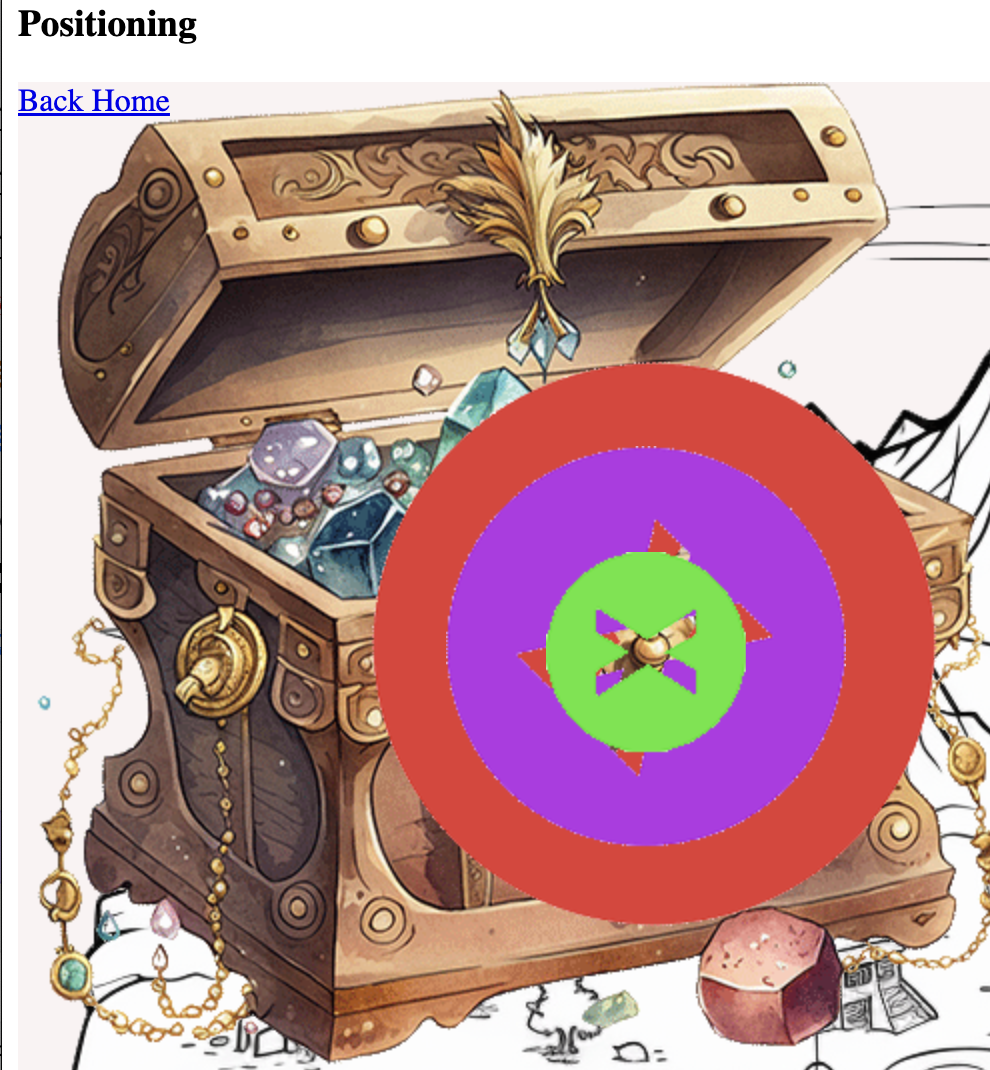
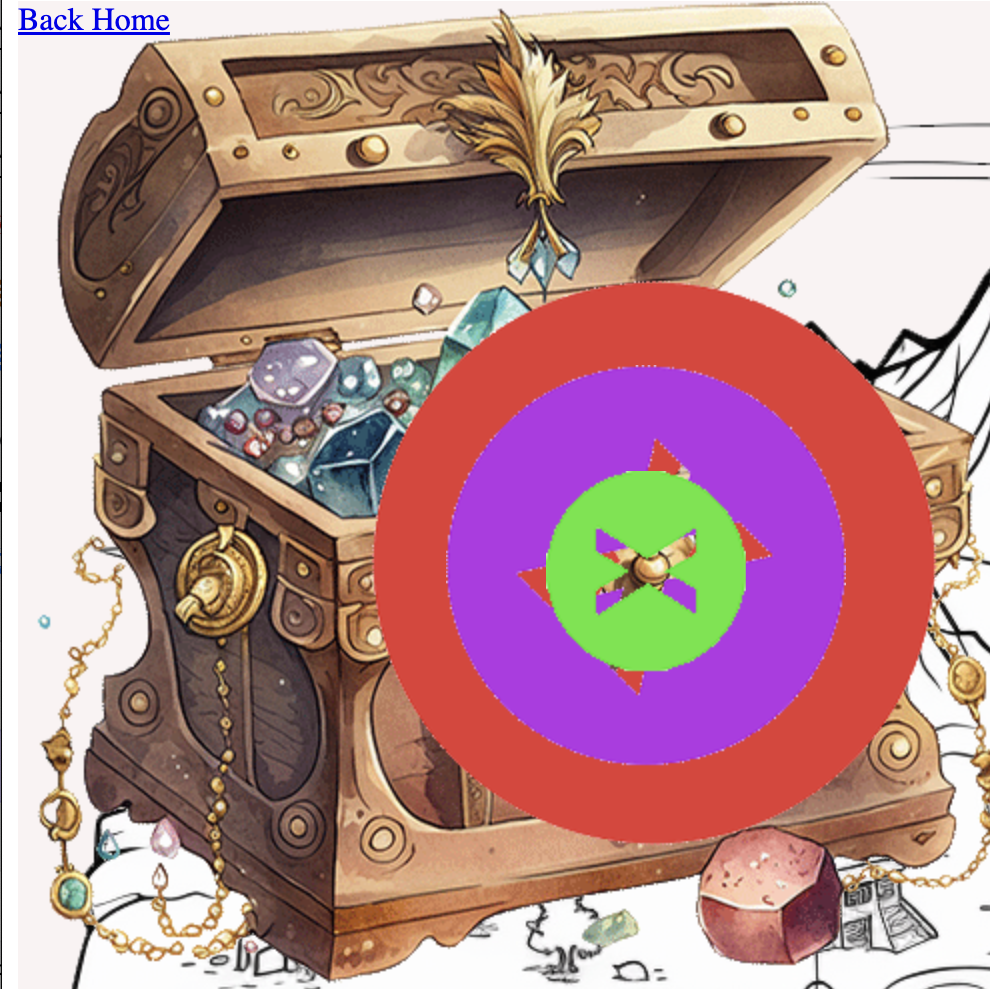
Upgraded

diff --git a/Buried-Treasure/index.html b/Buried-Treasure/index.html
@@ -18,7 +18,8 @@
     <img width=500 src="images/start.png">
     <p>On that page, <strong>position the three X's directly over the center of the treasure chest image (the lock) so they "stack" (you can see each one behind the other).</strong>  Use style declarations in the head section to do your work - don't use the external stylesheet.</p>
 <p>Each X should use a different kind of positioning:  1 should be <strong>absolute</strong> (looks <a href="images/stage1.png" target="_blank">like this</a>), 1 should be <strong>relative</strong> (looks <a href="images/stage2.png" target="_blank">like this</a>), and 1 should be <strong>fixed</strong> (looks like below).  The fixed one will need you to move the window - so it's the smallest one.</p>
- <img src ="images/stage3.png">
+<h3>Done looks like this:</h3>
+ <img width=500 src="images/stage3.png">
     <hr>
     <ul>
       <li><a href="https://www.w3schools.com/css/css_positioning.asp" target="_blank">W3Schools Page</a></li>

diff --git a/index.html b/index.html
@@ -1,7 +1,10 @@
 
 <!-- saved from url=(0040) -->
-<html><head><meta http-equiv="Content-Type" content="text/html; charset=UTF-8"><link type="text/css" rel="stylesheet" href="style.css">
-   <link rel="stylesheet" href="chrome-extension://lcgajdcbmhepemmlpemkkpgagieehmjp/fonts/Metropolis.css"></head>
+<html><head>
+    <meta http-equiv="Content-Type" content="text/html; charset=UTF-8">
+    <link type="text/css" rel="stylesheet" href="style.css">
+    <title>Replace with your name</title>
+</head>
     <body cz-shortcut-listen="true">
         <svg style="display:none;" width="16px" height="16px" viewBox="0 0 16 16" version="1.1" xmlns="http://www.w3.org/2000/svg" xmlns:xlink="http://www.w3.org/1999/xlink">
             <defs>

diff --git a/style.css b/style.css
@@ -1,5 +1,6 @@
 td, th {
   padding:5px;
+  padding-right:20px;
   border-bottom:1px solid #ccc;
 }
 th {
